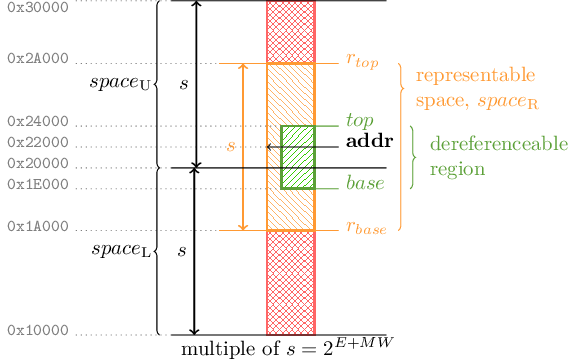
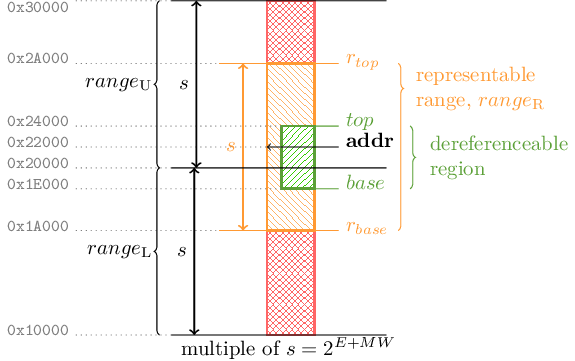
Update rep space to rep range in figures (#1226)
Requested by @tariqkurd-repo

Changed region(s): [[0.7096, 0.2438, 0.9461, 0.3047], [0.1478, 0.6704, 0.2365, 0.7313], [0.1478, 0.2133, 0.2365, 0.2438]]

diff --git a/src/cheri/img/correction-figs/capformat.tex b/src/cheri/img/correction-figs/capformat.tex
@@ -75,7 +75,7 @@
       \draw[damber] (repbl) -- (srseprx |- repbl) node [pos=1,anchor=base west] {$r_{base}$};
       \draw[damber] (repbl |- reptr) -- (srseprx |- reptr) node [pos=1,anchor=base west] {$r_{top}$};
     \fi
-    \draw[damber,decoration={brace,mirror,aspect=.85},decorate] (srbracex |- repbl) -- (srbracex |- reptr) node [pos=.85,anchor=west,align=left,xshift=5pt] {representable\\space, $space_\text{R}$};
+    \draw[damber,decoration={brace,mirror,aspect=.85},decorate] (srbracex |- repbl) -- (srbracex |- reptr) node [pos=.85,anchor=west,align=left,xshift=5pt] {representable\\range, $range_\text{R}$};
   }{}
 
   \coordinate (extextx) at (\extextx,0);
@@ -137,8 +137,8 @@
   \coordinate (spacebracet) at (spacebraceb |- redtr);
   \ifthenelse{\equal{#2}{label}}{
   % space label braces
-    \draw[decoration={brace},decorate] (spacebraceb) -- (spacebracem) node [midway,left] {$space_\text{L}$};
-    \draw[decoration={brace},decorate] (spacebracem) -- (spacebracet) node [midway,left] {$space_\text{U}$};
+    \draw[decoration={brace},decorate] (spacebraceb) -- (spacebracem) node [midway,left] {$range_\text{L}$};
+    \draw[decoration={brace},decorate] (spacebracem) -- (spacebracet) node [midway,left] {$range_\text{U}$};
   }{}
   \fi
 }
